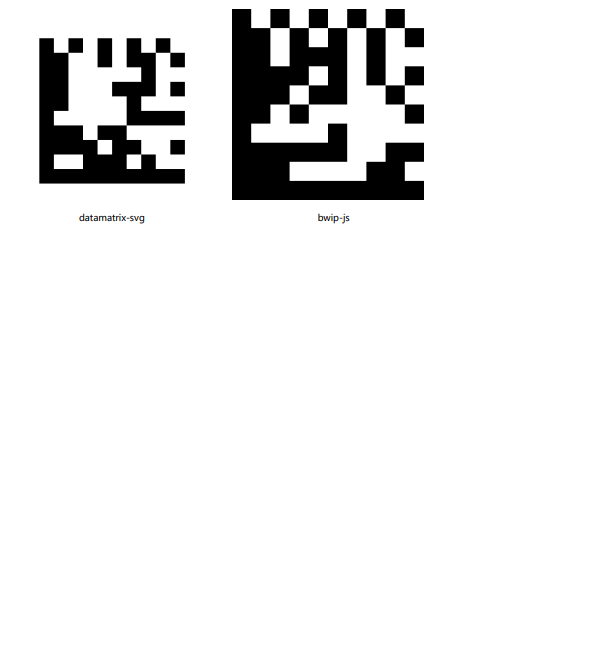
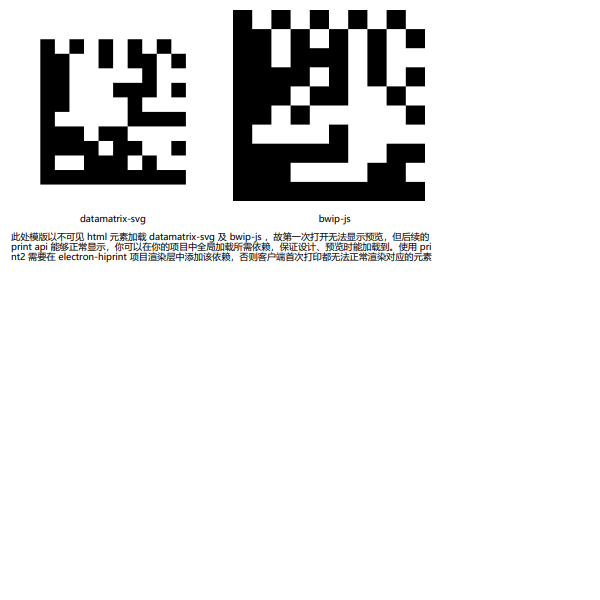
fix 模版中添加说明，formatter改为模版字符串方式方便查看

Changed region(s): [[0.0, 0.0, 0.72, 0.45], [0.36, 0.03, 0.39, 0.3], [0.39, 0.0, 0.42, 0.03]]

diff --git a/src/demo/templates/template-files/template5.js b/src/demo/templates/template-files/template5.js
@@ -2,7 +2,7 @@
  * @Author: 54xavier
  * @LastEditors: admin@54xavier.cn
  * @Date: 2023-02-28 14:00:03
- * @LastEditTime: 2023-08-05 15:13:28
+ * @LastEditTime: 2023-08-08 19:33:15
  */
 export const name = "DM码实现";
 export const desc = "通过HTML元素实现DM码";
@@ -31,8 +31,12 @@ export const json = {
             top: 0,
             height: 1,
             width: 1,
-            formatter:
-              'function(t, e, printData) {\n  var script = document.createElement("script");\n  script.setAttribute("type", "text/javascript");\n  script.setAttribute(\n    "src",\n    "https://datalog.github.io/demo/datamatrix-svg/datamatrix.min.js"\n  );\n  return script;\n}',
+            formatter: `function(t, e, printData) {
+                var script = document.createElement("script");
+                script.setAttribute("type", "text/javascript");
+                script.setAttribute("src", "https://datalog.github.io/demo/datamatrix-svg/datamatrix.min.js");
+                return script;
+            }`,
           },
           printElementType: {
             // 此元素为 DATAMatrix 依赖，此方法仅浏览器打印(print)生效，print2可能会无法加载依赖，需要手动在electron-hiprint项目中引入依赖
@@ -47,8 +51,12 @@ export const json = {
             top: 0,
             height: 1,
             width: 1,
-            formatter:
-              'function(t, e, printData) {\n  var script = document.createElement("script");\n  script.setAttribute("type", "text/javascript");\n  script.setAttribute(\n    "src",\n    "https://cdnjs.cloudflare.com/ajax/libs/bwip-js/4.0.0/bwip-js-min.js"\n  );\n  return script;\n}',
+            formatter: `function(t, e, printData) {
+                var script = document.createElement("script");
+                script.setAttribute("type", "text/javascript");
+                script.setAttribute("src", "https://cdnjs.cloudflare.com/ajax/libs/bwip-js/4.0.0/bwip-js-min.js");
+                return script;
+            }`,
           },
           printElementType: {
             // 此元素为 bwip-js 依赖，此方法仅浏览器打印(print)生效，print2可能会无法加载依赖，需要手动在electron-hiprint项目中引入依赖
@@ -63,8 +71,14 @@ export const json = {
             top: 12,
             height: 200,
             width: 200,
-            formatter:
-              'function(t, e, printData) {\n  if (window.DATAMatrix) {\n    var svgNode = DATAMatrix({msg: printData?.DMCode1 || "testData", dim: 267});\n    return svgNode;\n  } else {\n    return "<div style=\'width: 267px;height: 267px;border: 1px solid;\'>点击打印预览查看</div>";\n  }\n}',
+            formatter: `function(t, e, printData) {
+              if (window.DATAMatrix) {
+                var svgNode = DATAMatrix({msg: printData?.DMCode1 || "testData", dim: 267});
+                return svgNode;
+              } else {
+                return "<div style='width: 267px;height: 267px;border: 1px solid;'>点击打印预览查看</div>";
+              }
+            }`,
             coordinateSync: false,
             widthHeightSync: false,
           },
@@ -76,8 +90,21 @@ export const json = {
             top: 12,
             height: 200,
             width: 200,
-            formatter:
-              'function(t, e, printData) {\n  if (window.bwipjs) {\n    var canvas = document.createElement("canvas");\n    var _bwip = bwipjs.toCanvas(canvas, {\n      bcid: "datamatrix",\n      text: printData?.DMCode2 || "testData",\n      scale: 3,\n      width: 30,\n      height: 30,\n    });\n    return `<img src="${_bwip.toDataURL()}"/>`;\n  } else {\n    return "<div style=\'width: 267px;height: 267px;border: 1px solid;\'>点击打印预览查看</div>";\n  }\n}',
+            formatter: `function(t, e, printData) {
+              if (window.bwipjs) {
+                var canvas = document.createElement("canvas");
+                var _bwip = bwipjs.toCanvas(canvas, {
+                  bcid: "datamatrix",
+                  text: printData?.DMCode2 || "testData",
+                  scale: 3,
+                  width: 30,
+                  height: 30,
+                });
+                return \`<img src="\${_bwip.toDataURL()}" />\`;
+              } else {
+                return "<div style='width: 267px;height: 267px;border: 1px solid;'>点击打印预览查看</div>";
+              }
+            }`,
             right: 566.24609375,
             bottom: 221.24609375,
             vCenter: 466.24609375,
@@ -122,6 +149,17 @@ export const json = {
             qrCodeLevel: 0,
           },
           printElementType: { title: "自定义文本", type: "text" },
+        },
+        {
+          options: {
+            left: 12,
+            top: 230,
+            height: 12,
+            width: 418,
+            title:
+              "说明：此处模版以不可见 html 元素加载 datamatrix-svg 及 bwip-js ，故第一次打开无法显示预览，但后续的 print api 能够正常显示，你可以在你的项目中全局加载所需依赖，保证设计、预览时能加载到，即可删除用于引入依赖的html元素。使用 print2 需要在 electron-hiprint 项目渲染层中添加该依赖，否则客户端首次打印都无法正常渲染对应的元素",
+          },
+          printElementType: { title: "说明", type: "text" },
         },
       ],
       paperNumberLeft: 565.5,
